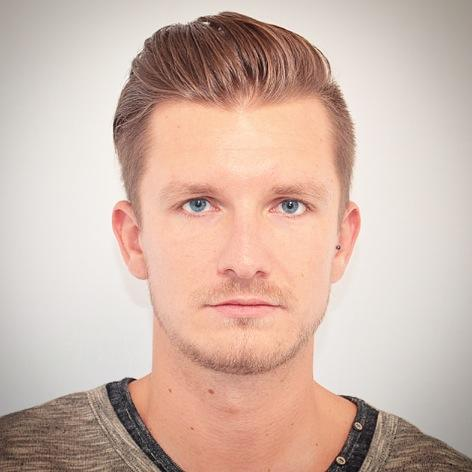
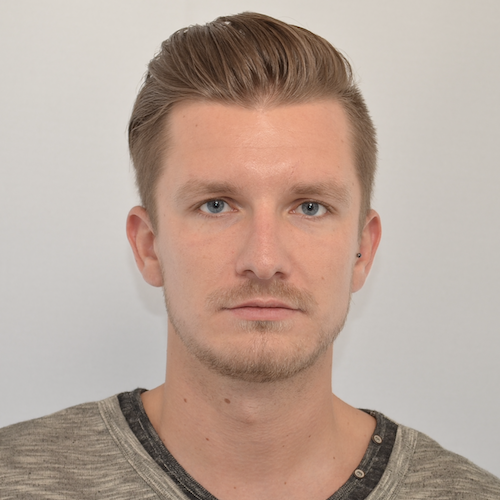
change bio pic and current role

diff --git a/_layouts/myhome.html b/_layouts/myhome.html
@@ -5,5 +5,5 @@ layout: default
 <div class="myhome-content">
   <img src="/assets/images/bio-pic.jpg" class="myhome-image">
   <p class="myhome-text">Hi, I'm Mario!</p>
-  <p class="myhome-sub-text">Data Scientist @ <a href="https://www.skyspecs.com" target="_blank">SkySpecs</a></p>
+  <p class="myhome-sub-text">Innovation Engineer @ <a href="https://www.skyspecs.com" target="_blank">SkySpecs</a></p>
 </div>
